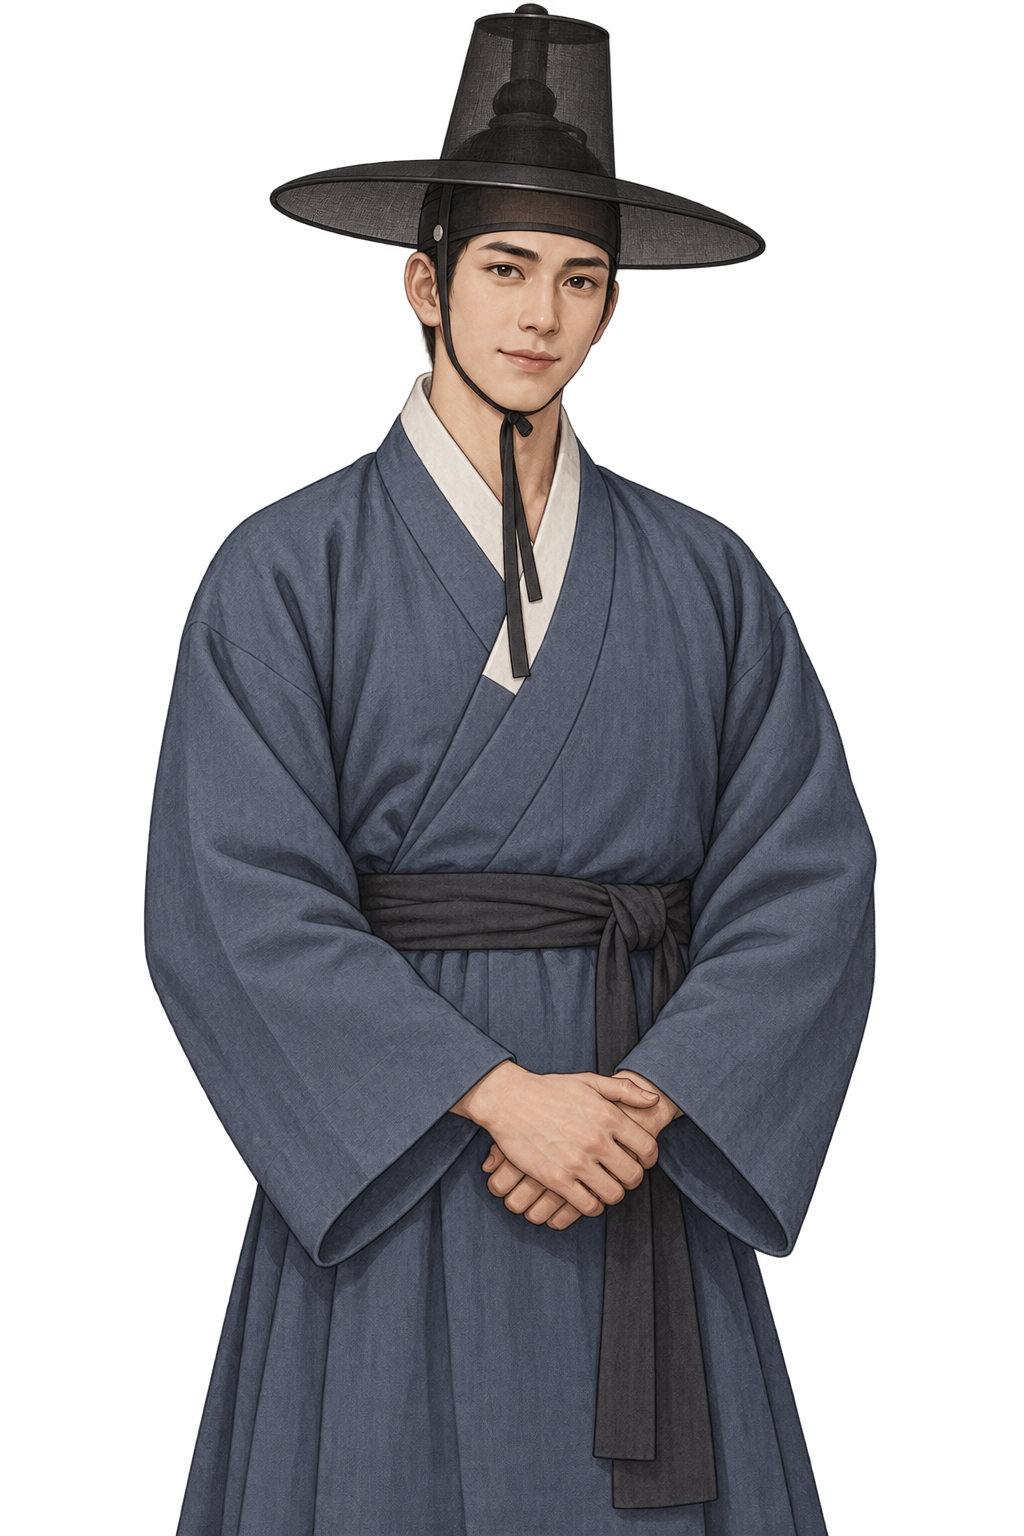
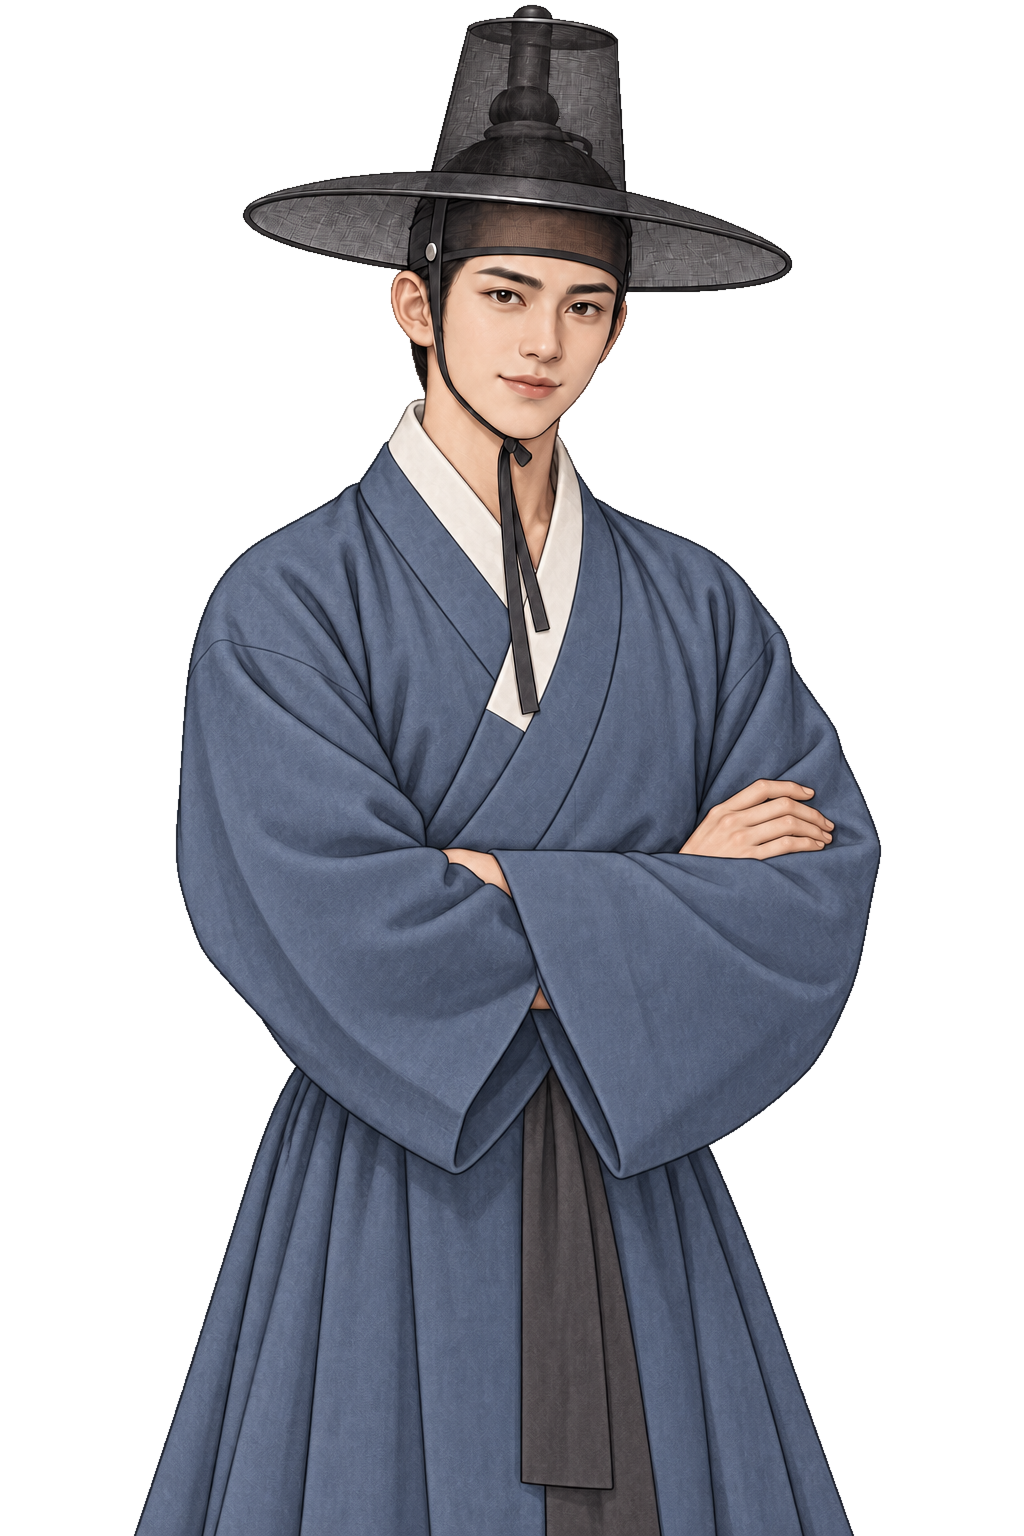
fix(art): 인물 이미지 교체 및 군관 긴장 표정 연결

diff --git a/story.js b/story.js
@@ -44,7 +44,7 @@
   scene('official', '이튿날 · 공개 조사', 'office', [
     ['narrator', '나는 군관을 불렀다. 그가 예를 갖추어 “전하”라고 답하자, 두 사람의 시선이 내게 쏠렸다. 우리는 관아의 작은 방으로 자리를 옮겼다.'],
     ['sukjong', '자, 확인한 것부터 듣자. 이 청년은 무슨 일을 했느냐.'],
-    ['officer', '전하, 청년은 돈을 빼앗는 줄 알고 문밖을 지켰다고 말했습니다.'],
+    ['officer', '전하, 청년은 돈을 빼앗는 줄 알고 문밖을 지켰다고 말했습니다.', 'tense'],
     ['youth', '어젯밤 뵌 분이 전하셨습니까…….', 'tense'],
     ['sukjong', '어제처럼 말해도 된다. 다만 한 일은 빼놓지 말고.'],
     ['youth', '사람이 오나 살폈습니다. 돈을 빼앗는다는 것도 알았습니다.', 'tense'],
